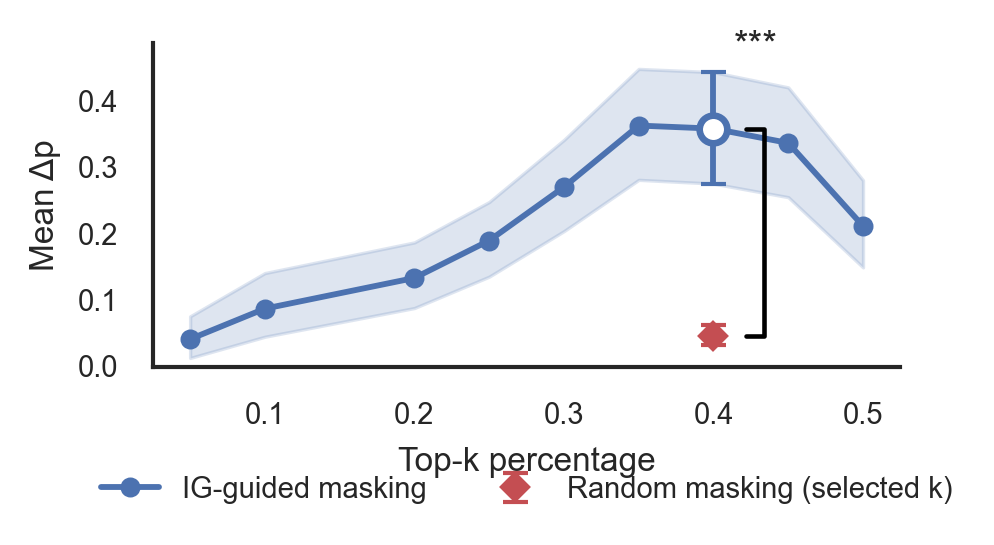
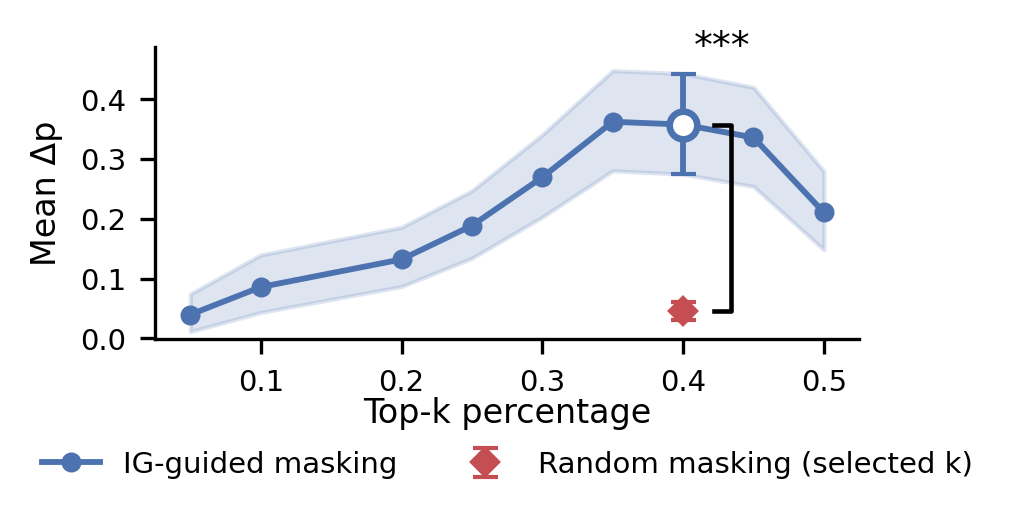
fixed plots

diff --git a/src/xallergen/plotting_paper_figures.py b/src/xallergen/plotting_paper_figures.py
@@ -218,6 +218,143 @@ def _format_vs_random(mean_diff: float, q_value: float) -> str:
     return f"{direction} {marker} (q={_format_q_value(q_value)})"
 
 
+def _coalesce_sequence_lengths(frame: pd.DataFrame) -> pd.Series:
+    if frame.empty:
+        return pd.Series(dtype=float)
+    if "sequence_length" in frame.columns:
+        lengths = pd.to_numeric(frame["sequence_length"], errors="coerce")
+    else:
+        lengths = pd.Series(np.nan, index=frame.index, dtype=float)
+    if "length" in frame.columns:
+        lengths = lengths.fillna(pd.to_numeric(frame["length"], errors="coerce"))
+    if "sequence" in frame.columns:
+        lengths = lengths.fillna(frame["sequence"].astype(str).str.len().astype(float))
+    return lengths.astype(float)
+
+
+def _parse_pipe_delimited_ints(value: object) -> list[int]:
+    if value is None or (isinstance(value, float) and pd.isna(value)):
+        return []
+    values: list[int] = []
+    for token in str(value).split("|"):
+        token = token.strip()
+        if not token:
+            continue
+        try:
+            values.append(int(token))
+        except ValueError:
+            continue
+    return values
+
+
+def _load_dataset_artifacts(data_dir: Path) -> dict[str, pd.DataFrame]:
+    paths = {
+        "positives": Path(data_dir) / "positives.csv",
+        "positive_metadata": Path(data_dir) / "positives_all_epitope_metadata.csv",
+        "positives_split_a": Path(data_dir) / "positives_splitA.csv",
+        "positives_split_b": Path(data_dir) / "positives_splitB.csv",
+        "negatives_split_a": Path(data_dir) / "negatives_splitA.csv",
+        "negatives_split_b": Path(data_dir) / "negatives_splitB.csv",
+    }
+    artifacts: dict[str, pd.DataFrame] = {}
+    for key, path in paths.items():
+        artifacts[key] = pd.read_csv(path) if path.exists() else pd.DataFrame()
+    return artifacts
+
+
+def plot_supplementary_positive_dataset_profile(
+    data_dir: Path,
+    pdf_path: Path,
+    png_path: Path,
+) -> bool:
+    import matplotlib.pyplot as plt
+
+    artifacts = _load_dataset_artifacts(data_dir)
+    positives_df = pd.concat(
+        [artifacts["positives_split_a"], artifacts["positives_split_b"]],
+        ignore_index=True,
+    ).drop_duplicates(subset=["accession", "sequence"], keep="first")
+    metadata_df = artifacts["positive_metadata"]
+    if positives_df.empty or metadata_df.empty:
+        return False
+
+    split_positive_keys = set(
+        positives_df[["accession", "sequence"]].astype(str).itertuples(index=False, name=None)
+    )
+    metadata_filtered = metadata_df.loc[
+        metadata_df[["accession", "sequence"]].astype(str).apply(tuple, axis=1).isin(split_positive_keys)
+    ].copy()
+    coverage = pd.to_numeric(positives_df["epitope_coverage"], errors="coerce").dropna().astype(float)
+    retained_epitopes = pd.to_numeric(
+        metadata_filtered["n_epitopes_after_relative_filter"],
+        errors="coerce",
+    ).dropna().astype(float)
+    individual_lengths = pd.Series(
+        [
+            length
+            for value in metadata_filtered.get("epitope_lengths_raw", pd.Series(dtype=object))
+            for length in _parse_pipe_delimited_ints(value)
+        ],
+        dtype=float,
+    )
+    scatter_df = positives_df.copy()
+    scatter_df["sequence_length_plot"] = _coalesce_sequence_lengths(scatter_df)
+    scatter_df["epitope_coverage_plot"] = pd.to_numeric(
+        scatter_df.get("epitope_coverage", pd.Series(dtype=float)),
+        errors="coerce",
+    )
+    scatter_df["n_epitopes_plot"] = pd.to_numeric(
+        scatter_df.get("n_epitopes_after_relative_filter", pd.Series(dtype=float)),
+        errors="coerce",
+    )
+    scatter_df = scatter_df.dropna(
+        subset=["sequence_length_plot", "epitope_coverage_plot", "n_epitopes_plot"]
+    ).copy()
+    if coverage.empty or retained_epitopes.empty or individual_lengths.empty or scatter_df.empty:
+        return False
+
+    fig, axes = plt.subplots(2, 2, figsize=(6.8, 4.8))
+    ax_coverage, ax_counts, ax_lengths, ax_scatter = axes.ravel()
+
+    ax_coverage.hist(coverage, bins=np.linspace(0.0, 0.75, 16), color="#4C72B0", alpha=0.90)
+    ax_coverage.set_xlabel("Protein epitope coverage")
+    ax_coverage.set_ylabel("Proteins")
+    _style_axes(ax_coverage)
+
+    count_bins = np.arange(0.5, float(retained_epitopes.max()) + 1.5, 1.0)
+    ax_counts.hist(retained_epitopes, bins=count_bins, color="#55A868", alpha=0.90)
+    ax_counts.set_xlabel("Retained epitopes per protein")
+    ax_counts.set_ylabel("Proteins")
+    _style_axes(ax_counts)
+
+    ax_lengths.hist(individual_lengths, bins=np.arange(5.5, 46.5, 2.0), color="#DD8452", alpha=0.90)
+    ax_lengths.set_xlabel("Individual epitope length (aa)")
+    ax_lengths.set_ylabel("Epitopes")
+    _style_axes(ax_lengths)
+
+    scatter = ax_scatter.scatter(
+        scatter_df["sequence_length_plot"],
+        scatter_df["epitope_coverage_plot"],
+        c=scatter_df["n_epitopes_plot"].clip(upper=20),
+        cmap="viridis",
+        s=14,
+        alpha=0.85,
+        linewidths=0.0,
+    )
+    ax_scatter.set_xlabel("Sequence length (aa)")
+    ax_scatter.set_ylabel("Protein epitope coverage")
+    _style_axes(ax_scatter)
+    cbar = fig.colorbar(scatter, ax=ax_scatter, fraction=0.046, pad=0.04)
+    cbar.set_label("Retained epitopes")
+    cbar.ax.tick_params(labelsize=FONT_TICK)
+
+    fig.tight_layout()
+    _safe_savefig(fig, pdf_path, bbox_inches="tight")
+    _safe_savefig(fig, png_path, dpi=300, bbox_inches="tight")
+    plt.close(fig)
+    return True
+
+
 def _compute_main_alignment_significance(base_df: pd.DataFrame, signal_specs: list[tuple[str, str, str]]) -> pd.DataFrame:
     from scipy.stats import wilcoxon
 
@@ -396,6 +533,7 @@ def plot_main_residue_alignment_subset(
     png_path: Path,
 ) -> None:
     import matplotlib.pyplot as plt
+    from matplotlib.lines import Line2D
 
     metric_keys = ["auroc", "auprc", "precision_at_k"]
     metric_labels = {
@@ -410,7 +548,7 @@ def plot_main_residue_alignment_subset(
     annotation_pad = 0.015
     edge_pad = 0.01
 
-    fig, ax = plt.subplots(figsize=ONE_COLUMN_FIGSIZE)
+    fig, ax = plt.subplots(figsize=(ONE_COLUMN_FIGSIZE[0], 3.35))
     for metric_key in metric_keys:
         means = summary_df[f"{metric_key}_mean"].to_numpy(dtype=float)
         ci_low = summary_df[f"{metric_key}_ci_low"].to_numpy(dtype=float)
@@ -466,12 +604,32 @@ def plot_main_residue_alignment_subset(
 
     ax.set_yticks(y_positions)
     ax.set_yticklabels(signal_order, fontsize=FONT_TICK)
-    ax.set_xlabel("Score")
+    ax.set_xlabel("Score", labelpad=2)
     ax.set_xlim(x_min, x_max)
     ax.invert_yaxis()
     _style_axes(ax)
-    _legend_below(ax, ncol=3, y_offset=-0.23)
-    fig.tight_layout(rect=(0.0, 0.13, 1.0, 1.0))
+    handles, labels = ax.get_legend_handles_labels()
+    handle_map = {label: handle for handle, label in zip(handles, labels)}
+    baseline_labels = ["AUROC random baseline", "Residue prevalence baseline"]
+    metric_labels_ordered = ["AUROC", "AUPRC", "Precision@k"]
+    baseline_handles = [handle_map[label] for label in baseline_labels if label in handle_map]
+    baseline_text = [label for label in baseline_labels if label in handle_map]
+    metric_handles = [handle_map[label] for label in metric_labels_ordered if label in handle_map]
+    metric_text = [label for label in metric_labels_ordered if label in handle_map]
+    dummy_handle = Line2D([], [], linestyle="none", linewidth=0, alpha=0)
+    ax.legend(
+        [*baseline_handles, dummy_handle, *metric_handles],
+        [*baseline_text, "", *metric_text],
+        frameon=False,
+        fontsize=FONT_LEGEND,
+        loc="upper center",
+        bbox_to_anchor=(0.50, -0.30),
+        ncol=2,
+        columnspacing=1.8,
+        handletextpad=0.8,
+        borderaxespad=0.0,
+    )
+    fig.tight_layout(rect=(0.0, 0.26, 1.0, 1.0))
     _safe_savefig(fig, pdf_path, bbox_inches="tight")
     _safe_savefig(fig, png_path, dpi=300, bbox_inches="tight")
     plt.close(fig)
@@ -747,13 +905,13 @@ def plot_main_ig_masking_vs_random(
         va="bottom",
         fontsize=FONT_AXIS + 1,
     )
-    ax.set_xlabel("Top-k percentage")
+    ax.set_xlabel("Top-k percentage", labelpad=2)
     ax.set_ylabel("Mean Δp")
     ax.set_xlim(float(ig_summary_df["k_pct"].min()) - 0.025, float(ig_summary_df["k_pct"].max()) + 0.025)
     ax.set_ylim(bottom=min(float(ig_summary_df["ci_low"].min()), y_bottom) - 0.03 * y_range, top=y_top + 0.10 * y_range)
     _style_axes(ax)
-    _legend_below(ax, ncol=2, y_offset=-0.30)
-    fig.tight_layout(rect=(0.0, 0.22, 1.0, 1.0))
+    _legend_below(ax, ncol=2, y_offset=-0.38)
+    fig.tight_layout(rect=(0.0, 0.30, 1.0, 1.0))
     _safe_savefig(fig, pdf_path, bbox_inches="tight")
     _safe_savefig(fig, png_path, dpi=300, bbox_inches="tight")
     plt.close(fig)